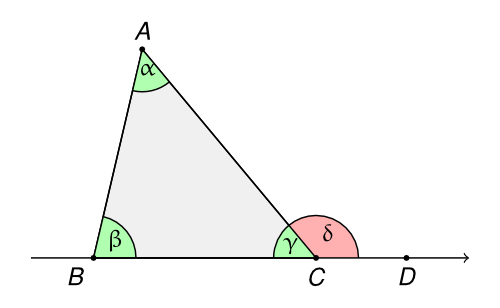
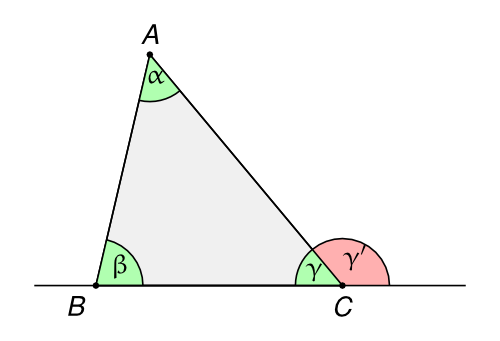
updated images

Changed region(s): [[0.06, 0.0584, 0.96, 0.9351], [0.12, 0.8766, 0.18, 0.9351]]

diff --git a/tikz/triangle-exteriour-angle-theorem-1/triangle-exteriour-angle-theorem-1.tex b/tikz/triangle-exteriour-angle-theorem-1/triangle-exteriour-angle-theorem-1.tex
@@ -15,12 +15,12 @@
     \tkzDefPoint(0.7,3){A}
     \tkzDefPoint(0,0){B}
     \tkzDefPoint(3.2,0){C}
-    \tkzDefPoint(4.5,0){D}
+    \tkzDefPoint(4.0,0){D}
 
     \tkzLabelPoints[above,font=\sansmath\sffamily](A)
     \tkzLabelPoints[below left,font=\sansmath\sffamily](B)
     \tkzLabelPoints[below,font=\sansmath\sffamily](C)
-    \tkzLabelPoints[below,font=\sansmath\sffamily](D)
+    % \tkzLabelPoints[below,font=\sansmath\sffamily](D)
 
     % Draw polygon
     \tkzDrawPolygon[fill=gray!10](A,B,C)
@@ -36,9 +36,9 @@
     \tkzLabelAngle[pos=0.4](A,C,B){$\gamma$}
 
     \tkzMarkAngle[arc=l,size=0.6cm,fill=red!30](D,C,A)
-    \tkzLabelAngle[pos=0.4](D,C,A){$\delta$}
+    \tkzLabelAngle[pos=0.4](D,C,A){$\gamma'$}
 
-    \tkzDrawLines[arrows=->](B,D)
+    \tkzDrawLines(B,D)
 
     % Label lines
     % \tkzLabelSegment[below](A,B){$c$}
@@ -49,7 +49,7 @@
     \tkzDrawPolygon(A,B,C)
 
     % Make dots for points
-    \tkzDrawPoints[size=1.0](A,B,C,D)
+    \tkzDrawPoints[size=1.0](A,B,C)
 \end{tikzpicture}
 \end{preview}
 \end{document}

diff --git a/tikz/triangle-exteriour-angle-theorem-2/triangle-exteriour-angle-theorem-2.tex b/tikz/triangle-exteriour-angle-theorem-2/triangle-exteriour-angle-theorem-2.tex
@@ -44,13 +44,13 @@
     \tkzLabelAngle[pos=0.4](A,C,B){$\gamma$}
 
     \tkzMarkAngle[arc=l,size=0.6cm,fill=red!30](D,A,B)
-    \tkzLabelAngle[pos=0.4](B,A,D){$\delta$}
+    \tkzLabelAngle[pos=0.4](B,A,D){$\alpha'$}
 
     \tkzMarkAngle[arc=l,size=0.6cm,fill=red!30](A,B,E)
-    \tkzLabelAngle[pos=0.4](A,B,E){$\epsilon$}
+    \tkzLabelAngle[pos=0.4](A,B,E){$\beta'$}
 
     \tkzMarkAngle[arc=l,size=0.6cm,fill=red!30](B,C,F)
-    \tkzLabelAngle[pos=0.4](B,C,F){$\zeta$}
+    \tkzLabelAngle[pos=0.4](B,C,F){$\gamma'$}
 
     % \tkzMarkAngle[arc=l,size=0.6cm,fill=orange!30](D,C,A)
     % \tkzLabelAngle[pos=0.4](D,C,A){$\delta$}
